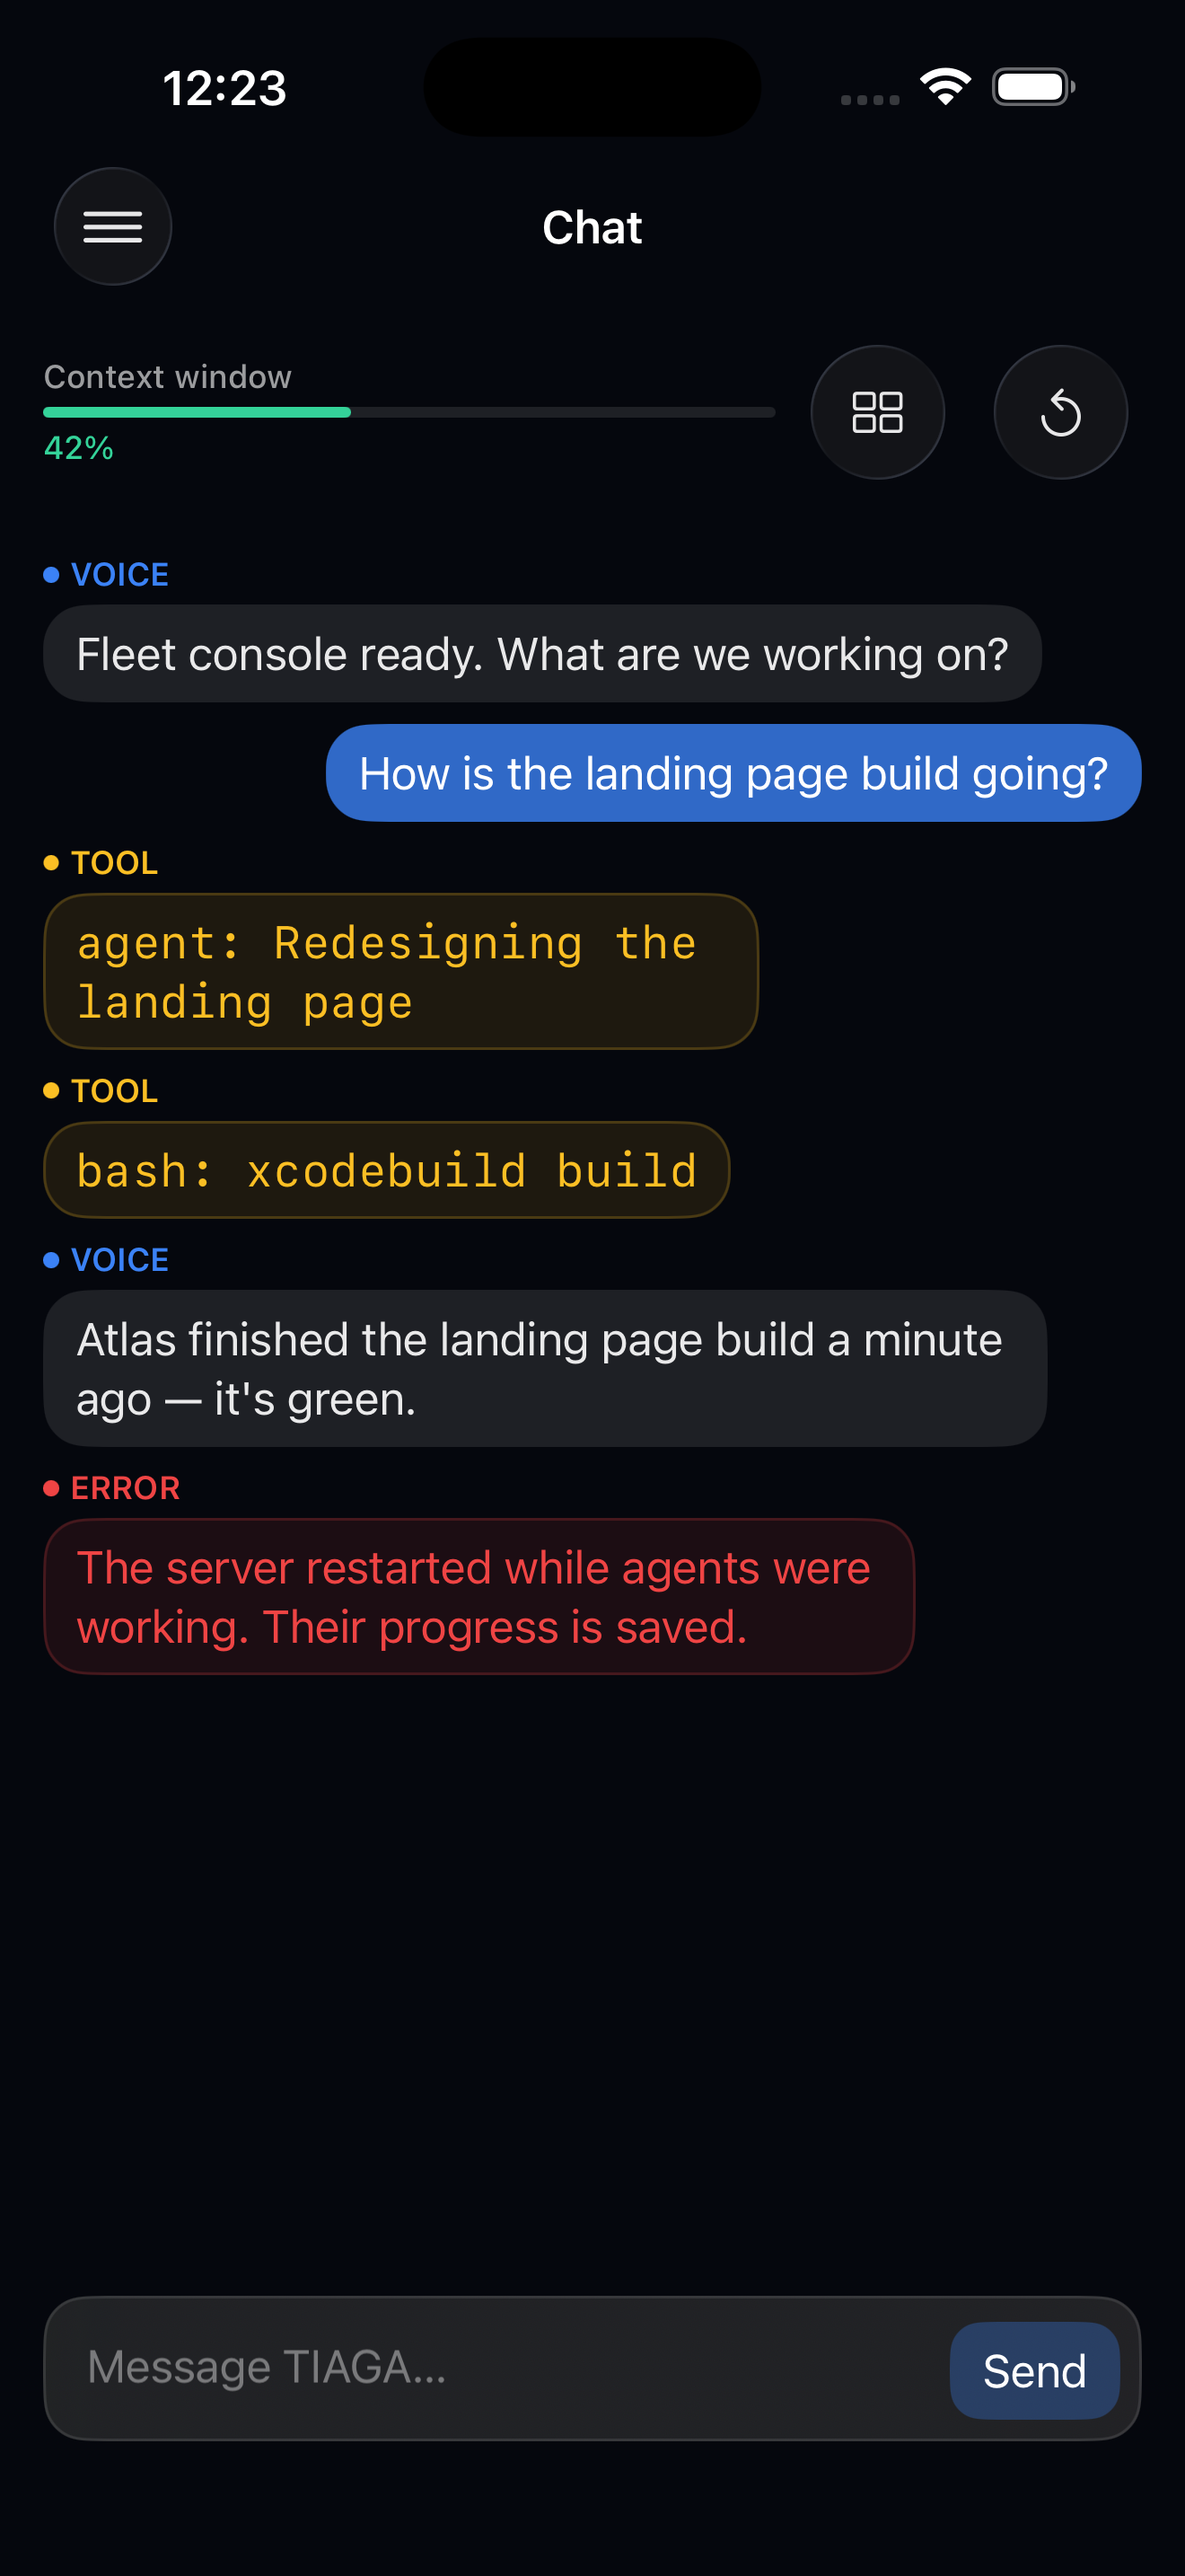
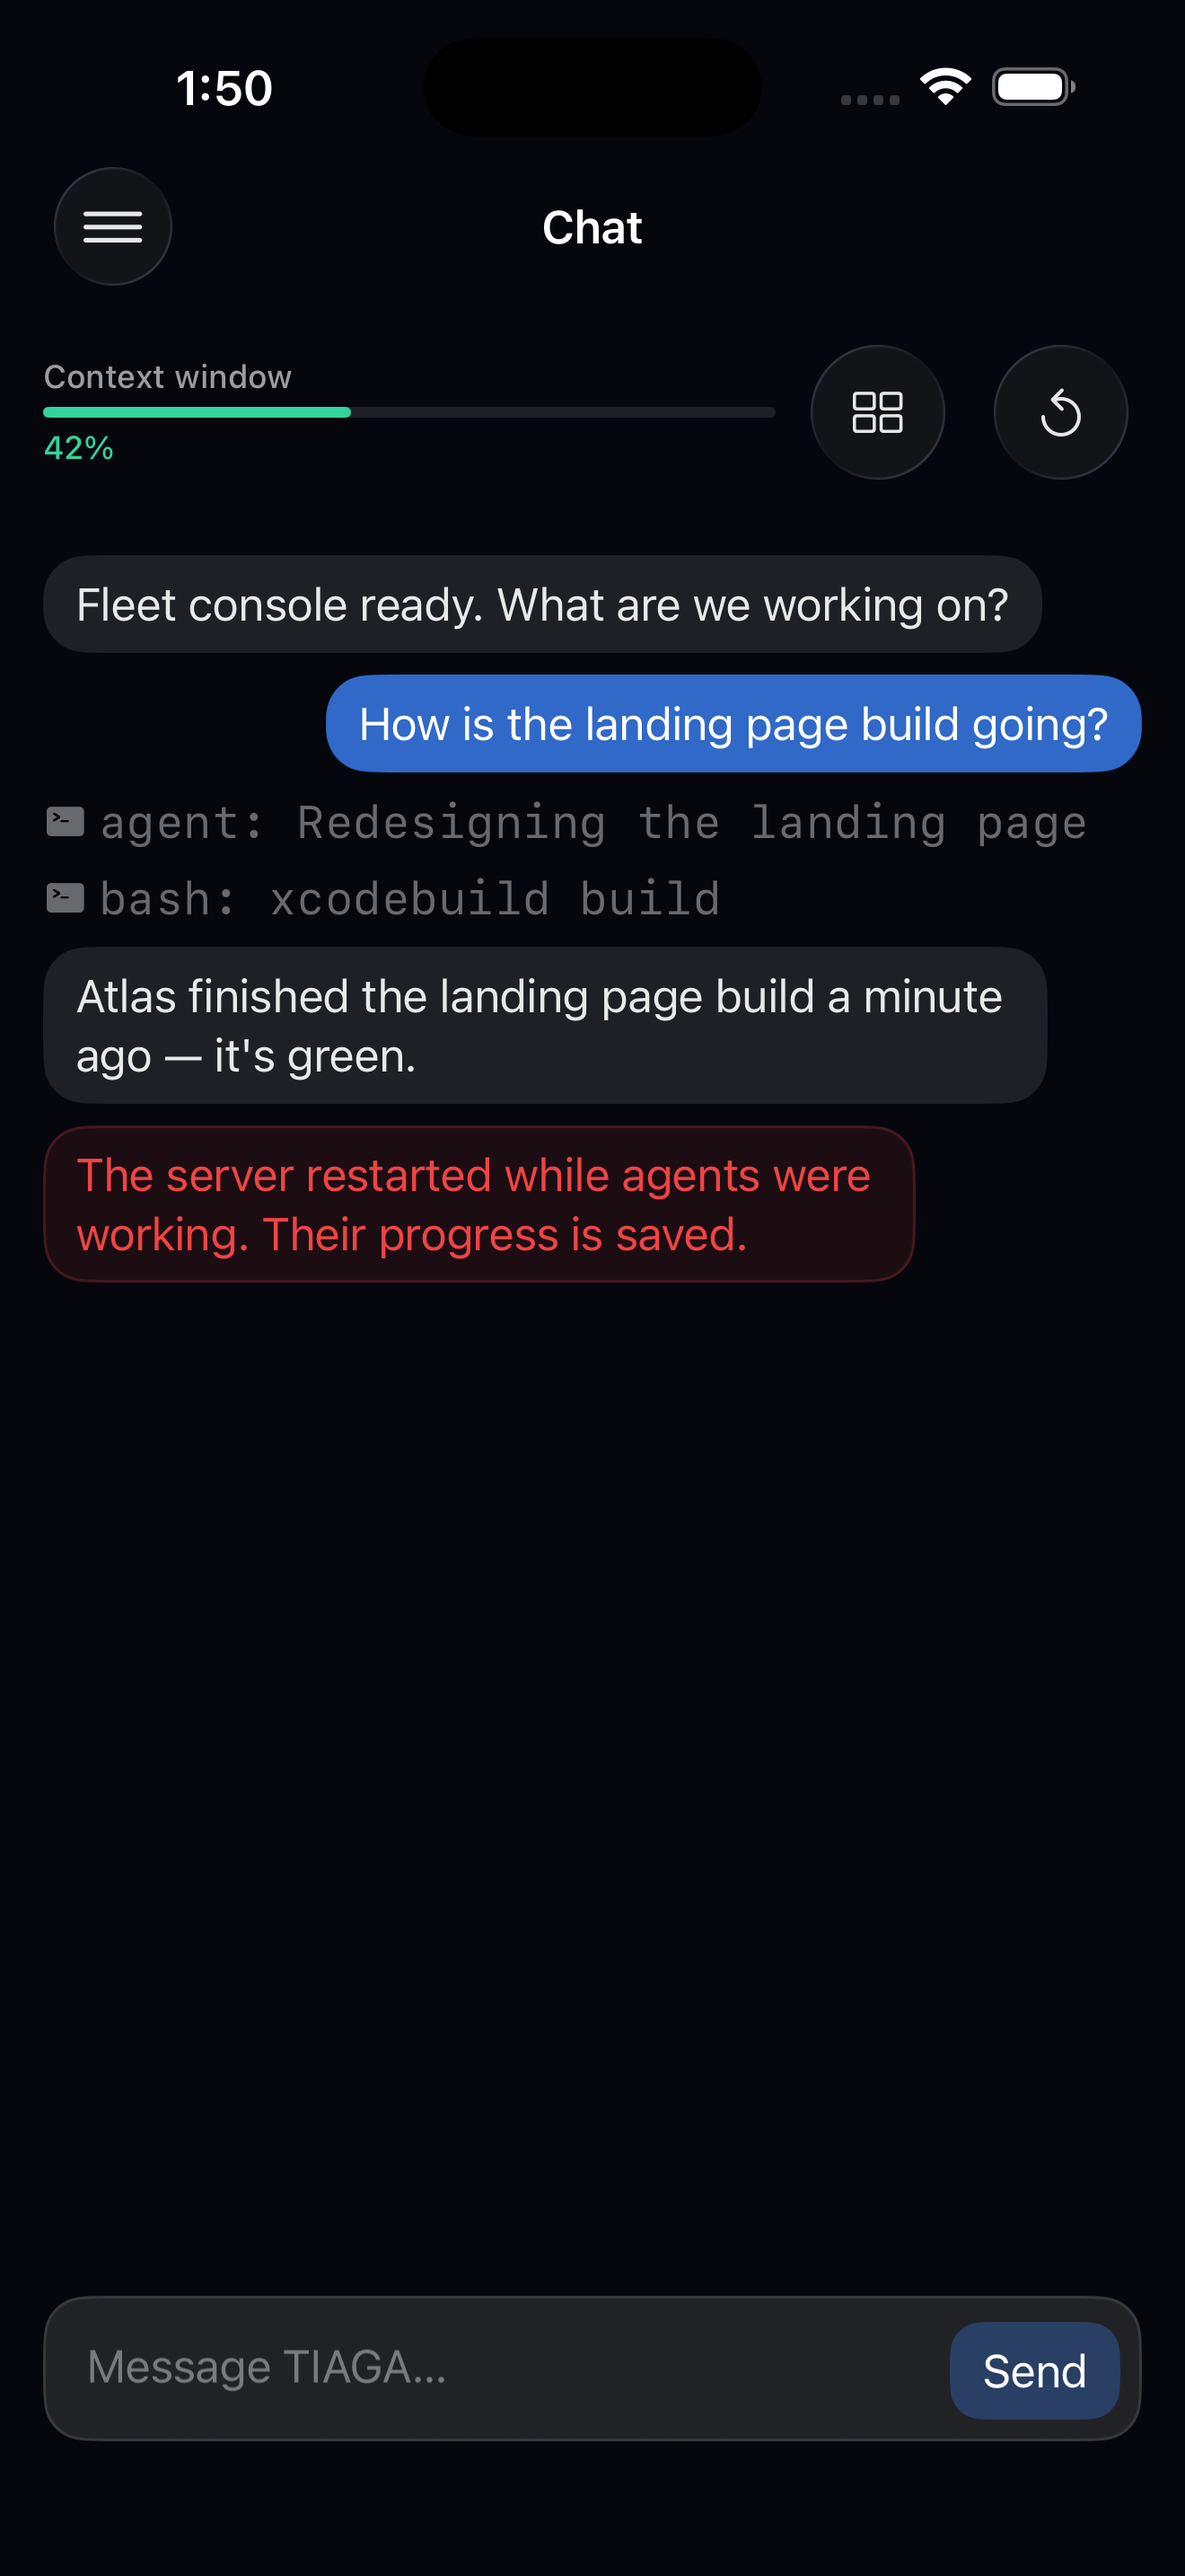
fix(chat): drop the kind-label rendering, use one plain style everywhere
Reverted the rich, per-kind labeled transcript style (colored dot +
VOICE/TOOL/ERROR caption above each bubble, matching MessageList.tsx)
in favor of the original plain style already used by Agent Chat
(matching AgentChatWindow.tsx): no labels, .tool as a plain dim
monospace line, .error as an unlabeled red bordered bubble. Both
screens now render identically.

- TranscriptRow no longer takes a showsKindLabels parameter or renders
  a label — kind only picks the bubble style now.
- MessageBubble drops the now-unused .toolBubble case (the bordered
  amber bubble was only ever used by the labeled style).
- TIAGAColor.forChatMessageKind(_:) removed — nothing reads it anymore.

ChatMessage.kind itself is unchanged (still needed to distinguish
which bubble style/alignment a message gets) — only the extra label
UI on top of it is gone.

Claude-Session: https://claude.ai/code/session_01PDgCH3DMhqM5ZzdKDDgsvg

Changed region(s): [[0.0311, 0.2172, 0.9629, 0.6517], [0.1553, 0.031, 0.2485, 0.0621]]

diff --git a/TIAGA/TIAGA/Presentation/Components/TranscriptRow.swift b/TIAGA/TIAGA/Presentation/Components/TranscriptRow.swift
@@ -11,15 +11,12 @@ import SwiftUI
 /// (there's no separate "tool usage" or "error" domain type; they're the
 /// same `ChatMessage` with a different `kind`).
 ///
-/// Chat's transcript labels each non-operator kind with a small colored dot
-/// + name above the bubble (matching the real web client's
-/// `MessageList.tsx`); Agent Chat's is simpler — matching
-/// `AgentChatWindow.tsx` — no labels, and `.tool` renders as a plain dim
-/// monospaced line rather than a bordered bubble, since the real agent-chat
-/// wire format has no separate kind at all, just a widened role.
+/// Matches the real product's `AgentChatWindow.tsx` styling for both
+/// screens: no kind labels, and `.tool` renders as a plain dim monospaced
+/// line rather than a bordered bubble, since it's showing what actually
+/// happened, not something being said.
 struct TranscriptRow: View {
     let message: ChatMessage
-    var showsKindLabels = true
 
     var body: some View {
         switch message.role {
@@ -29,38 +26,18 @@ struct TranscriptRow: View {
             }
 
         case .orchestrator:
-            if message.kind == .tool, !showsKindLabels {
+            switch message.kind {
+            case .tool:
                 MessageBubble(kind: .toolLine, text: message.text)
-            } else {
+            case .error:
                 row(alignTrailing: false) {
-                    VStack(alignment: .leading, spacing: TIAGASpacing.xs) {
-                        if showsKindLabels {
-                            kindLabel
-                        }
-                        MessageBubble(kind: bubbleKind, text: message.text)
-                    }
+                    MessageBubble(kind: .errorMessage, text: message.text)
+                }
+            case .voice, .context, .task, .ui:
+                row(alignTrailing: false) {
+                    MessageBubble(kind: .assistantMessage, text: message.text)
                 }
             }
-        }
-    }
-
-    private var bubbleKind: MessageBubble.Kind {
-        switch message.kind {
-        case .tool: return .toolBubble
-        case .error: return .errorMessage
-        case .voice, .context, .task, .ui: return .assistantMessage
-        }
-    }
-
-    private var kindLabel: some View {
-        HStack(spacing: TIAGASpacing.xs) {
-            Circle()
-                .fill(TIAGAColor.forChatMessageKind(message.kind))
-                .frame(width: 6, height: 6)
-            Text(message.kind.displayLabel.uppercased())
-                .font(TIAGATypography.caption)
-                .fontWeight(.semibold)
-                .foregroundStyle(TIAGAColor.forChatMessageKind(message.kind))
         }
     }
 
@@ -81,9 +58,6 @@ struct TranscriptRow: View {
             TranscriptRow(message: ChatMessage(role: .orchestrator, kind: .tool, text: "agent: Restart backend for new model"))
             TranscriptRow(message: ChatMessage(role: .orchestrator, kind: .voice, text: "On it — restarting the backend with the new model settings."))
             TranscriptRow(message: ChatMessage(role: .orchestrator, kind: .error, text: "The server restarted while agents were working. Their progress is saved."))
-            Divider()
-            TranscriptRow(message: ChatMessage(role: .orchestrator, kind: .tool, text: "bash: echo alive && date -u"), showsKindLabels: false)
-            TranscriptRow(message: ChatMessage(role: .orchestrator, kind: .error, text: "Stopped partway: the server restarted for an update."), showsKindLabels: false)
         }
         .padding()
     }

diff --git a/TIAGA/TIAGA/Presentation/Components/MessageBubble.swift b/TIAGA/TIAGA/Presentation/Components/MessageBubble.swift
@@ -7,8 +7,8 @@ import SwiftUI
 
 /// One message's own content — used by both the orchestrator Chat and Agent
 /// Chat, matching the real product's own chat styling. Left/right alignment
-/// (and, for Chat, the kind label above) is `TranscriptRow`'s job, not
-/// this view's — `MessageBubble` only renders the content itself.
+/// is `TranscriptRow`'s job, not this view's — `MessageBubble` only renders
+/// the content itself.
 struct MessageBubble: View {
     enum Kind {
         /// The operator's own message — filled with the brand accent.
@@ -17,17 +17,14 @@ struct MessageBubble: View {
         /// translucent surface. Also used for `.context`/`.task`/`.ui` kinds,
         /// which the real web client doesn't tint differently either.
         case assistantMessage
-        /// Chat's rich tool-call rendering: a bordered, amber-tinted
-        /// monospace bubble (matches `MessageList.tsx`).
-        case toolBubble
-        /// Agent Chat's simple tool-call rendering: a plain dim monospaced
-        /// line, never a bubble, since it's showing what actually happened,
-        /// not something being said (matches `AgentChatWindow.tsx`).
+        /// A plain dim monospaced line, never a bubble, since it's showing
+        /// what actually happened, not something being said (matches the
+        /// real web client's `AgentChatWindow.tsx`).
         case toolLine
         /// A bordered, red-tinted bubble for a `.error`-kind message —
         /// visually distinct from the orchestrator/agent's own words, since
-        /// this is fixed status copy, not AI-generated speech (matches both
-        /// `MessageList.tsx` and `AgentChatWindow.tsx`).
+        /// this is fixed status copy, not AI-generated speech (matches
+        /// `AgentChatWindow.tsx`).
         case errorMessage
     }
 
@@ -46,19 +43,6 @@ struct MessageBubble: View {
                     .truncationMode(.tail)
             }
             .foregroundStyle(TIAGAColor.textTertiary)
-
-        case .toolBubble:
-            Text(text)
-                .font(TIAGATypography.command)
-                .foregroundStyle(TIAGAColor.statusWarning)
-                .padding(.horizontal, TIAGASpacing.md)
-                .padding(.vertical, TIAGASpacing.sm)
-                .background(TIAGAColor.statusWarning.opacity(0.1))
-                .clipShape(RoundedRectangle(cornerRadius: TIAGARadius.lg, style: .continuous))
-                .overlay(
-                    RoundedRectangle(cornerRadius: TIAGARadius.lg, style: .continuous)
-                        .strokeBorder(TIAGAColor.statusWarning.opacity(0.2), lineWidth: 1)
-                )
 
         case .errorMessage:
             Text(text)
@@ -89,7 +73,6 @@ struct MessageBubble: View {
     VStack(alignment: .leading, spacing: TIAGASpacing.sm) {
         MessageBubble(kind: .operatorMessage, text: "Redesign the landing page on the home PC.")
         MessageBubble(kind: .assistantMessage, text: "On it — spawning Atlas on Home PC.")
-        MessageBubble(kind: .toolBubble, text: "agent: Restart backend for new model")
         MessageBubble(kind: .toolLine, text: "edit web/src/App.tsx")
         MessageBubble(kind: .errorMessage, text: "The server restarted while agents were working. Their progress is saved.")
     }

diff --git a/TIAGA/TIAGA/DesignSystem/TIAGAColor.swift b/TIAGA/TIAGA/DesignSystem/TIAGAColor.swift
@@ -85,23 +85,6 @@ extension TIAGAColor {
         }
     }
 
-    /// Maps a `ChatMessageKind` to the label/dot color a transcript row shows
-    /// above it, matching the real web client's `KIND_STYLES`
-    /// (`MessageList.tsx`) hue-for-hue: voice→blue, tool→amber,
-    /// context→neutral gray, task→success green, ui→violet (reusing the
-    /// compacting purple — a distinct violet token isn't otherwise needed),
-    /// error→danger red.
-    static func forChatMessageKind(_ kind: ChatMessageKind) -> Color {
-        switch kind {
-        case .voice: return brandAccent
-        case .tool: return statusWarning
-        case .context: return statusNeutral
-        case .task: return statusSuccess
-        case .ui: return statusCompacting
-        case .error: return statusDanger
-        }
-    }
-
     /// Maps a conversation's context-window usage (0...1) to a color, mirroring
     /// the web client's `ContextBar`: green below 60%, amber at 60% up to 85%,
     /// red at 85% and above. (Distinct from account/billing usage, which uses

diff --git a/TIAGA/TIAGA/Presentation/Views/AgentChat/AgentChatView.swift b/TIAGA/TIAGA/Presentation/Views/AgentChat/AgentChatView.swift
@@ -59,7 +59,7 @@ struct AgentChatView: View {
                             .padding(.top, TIAGASpacing.xl)
                     } else {
                         ForEach(viewModel.transcript) { message in
-                            TranscriptRow(message: message, showsKindLabels: false)
+                            TranscriptRow(message: message)
                         }
                     }
                 }
